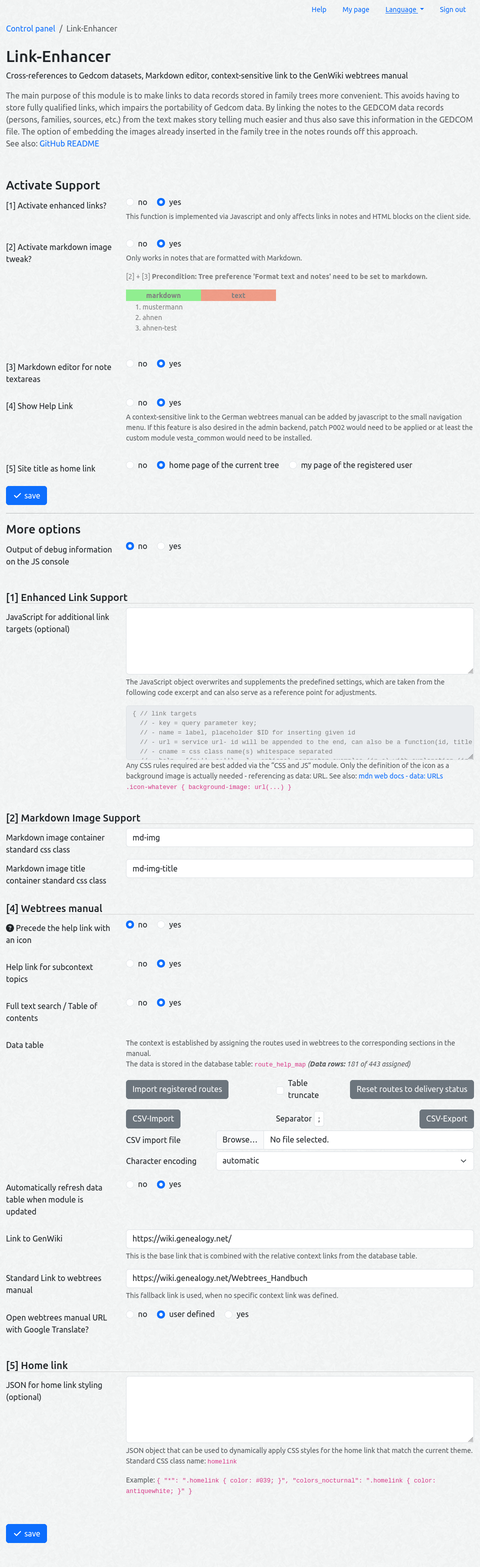
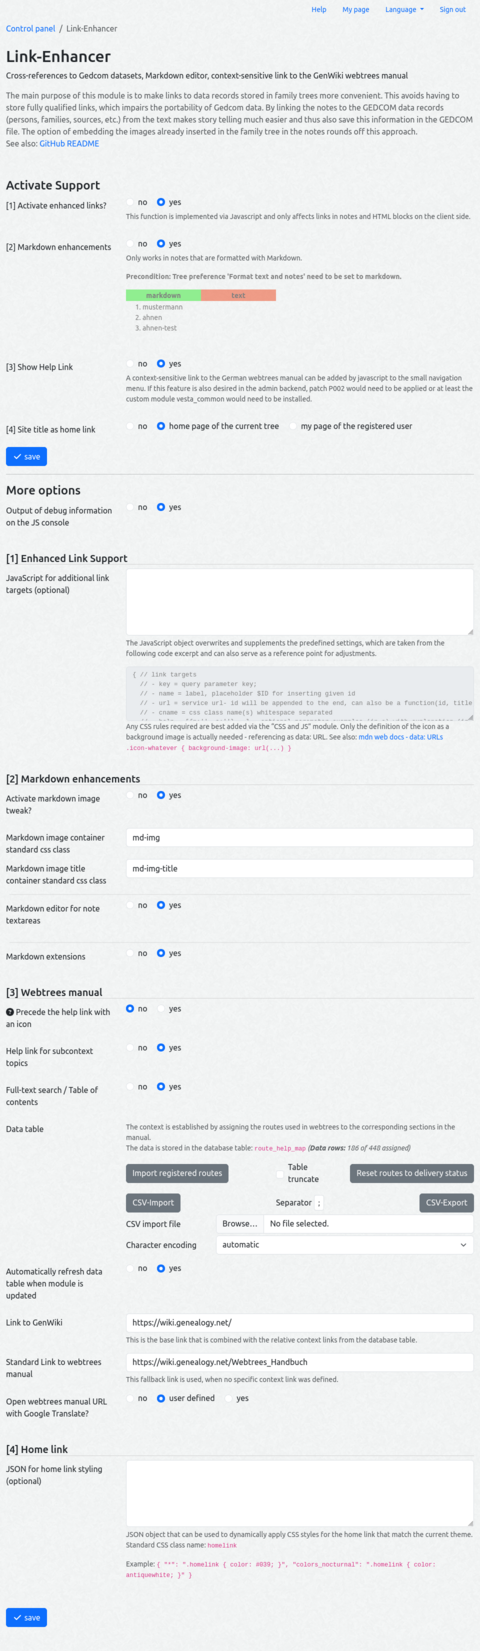
documentation

diff --git a/README.md b/README.md
@@ -31,6 +31,7 @@ The main purpose of this module is to make [**links to data records**](#enhanced
 Additionally there are some goodies more or less related with links:
 
 - The note textarea can be a [**visual markdown editor**](#mde) with **markdown help**.
+- Enabling further [**markdown extensions**](#mdext).
 - [**Context sensitive help links**](#wthb) to the [german webtrees manual](https://wiki.genealogy.net/Webtrees_Handbuch) can be activated in the small menu at the top of the page and for subcontext topics on the page. Furthermore, full-text search is supported and it is possible to browse the table of contents.
 - The [**site title can be a link**](#homelink) to the tree homepage or the user my page.
 - A few minor [**patches**](#patches), that can applied by bash script (not necessary for this module).
@@ -172,6 +173,14 @@ Besides syntax highlighting it ships with an icon bar for common format commands
 ![Markdown Help](resources/img/screenshot_markdown-help.png)
 
 **Note:** Unfortunately, the on-screen keyboard does NOT work as before with the previous text input field. The selected characters end up as an intermediate step in the small text field below the Markdown editor and then must be copied manually to the desired position.
+
+<a name="mdext"></a>
+#### Markdown Extensions
+The package [League\CommonMarkdown](https://commonmark.thephpleague.com/) used for processing Markdown texts offers several useful extensions that can be activated optionally:
+- [Strikethrough](https://commonmark.thephpleague.com/2.x/extensions/strikethrough/) - see also fisharebest/webtrees#5113
+- [Description Lists](https://commonmark.thephpleague.com/2.x/extensions/description-lists/)
+- [Footnotes](https://commonmark.thephpleague.com/2.x/extensions/footnotes/)
+
 
 <a name="wthb"></a>
 ### German webtrees manual
